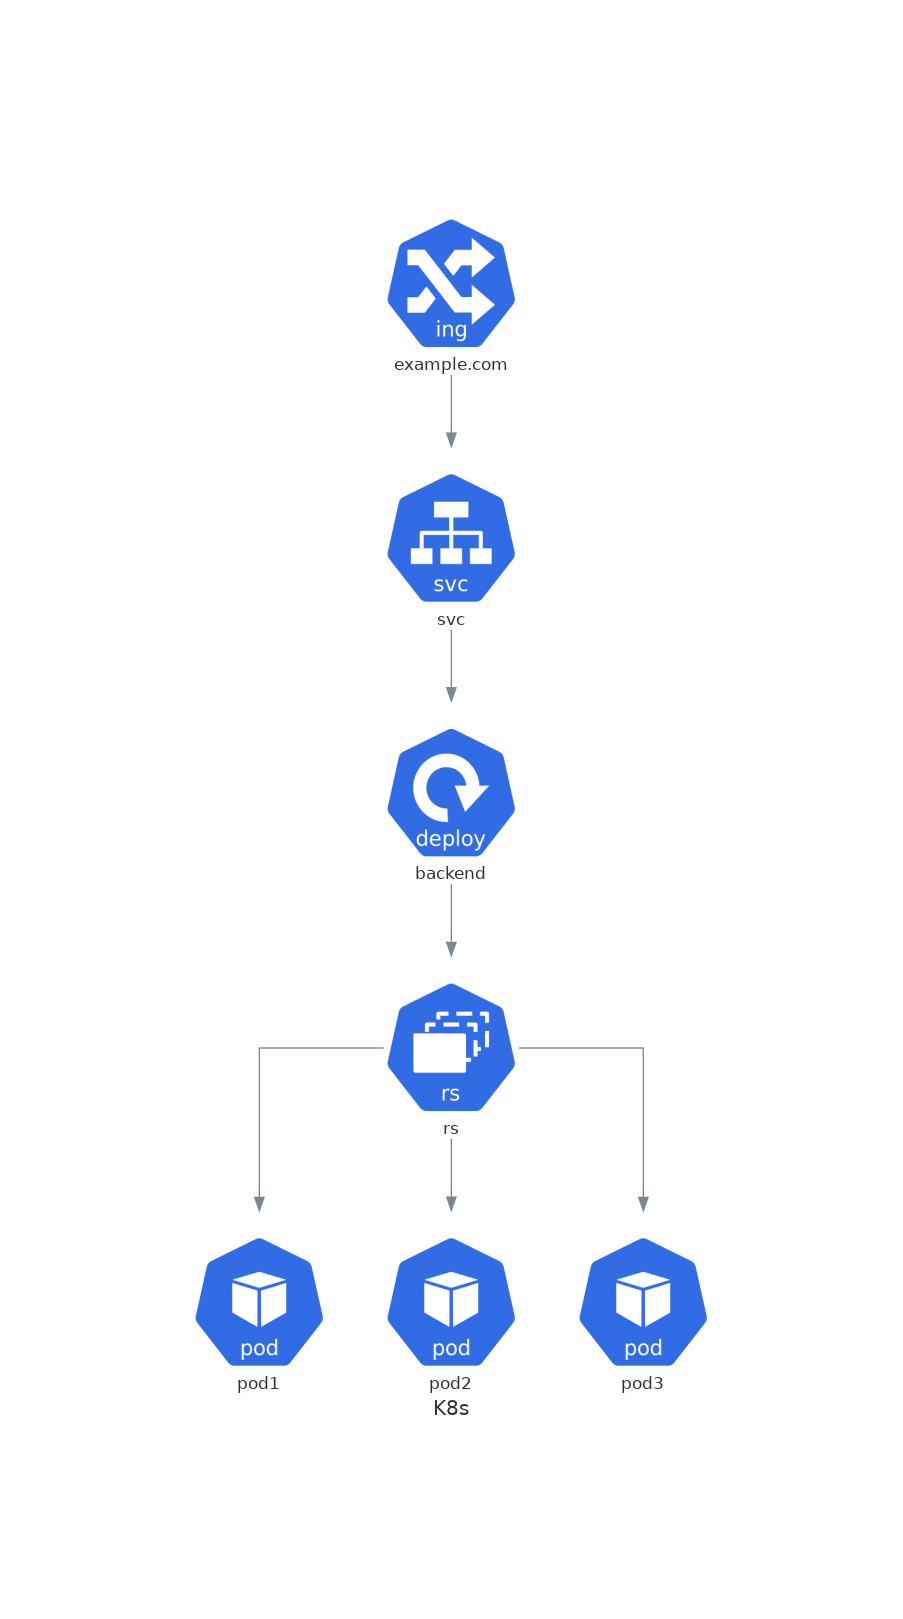
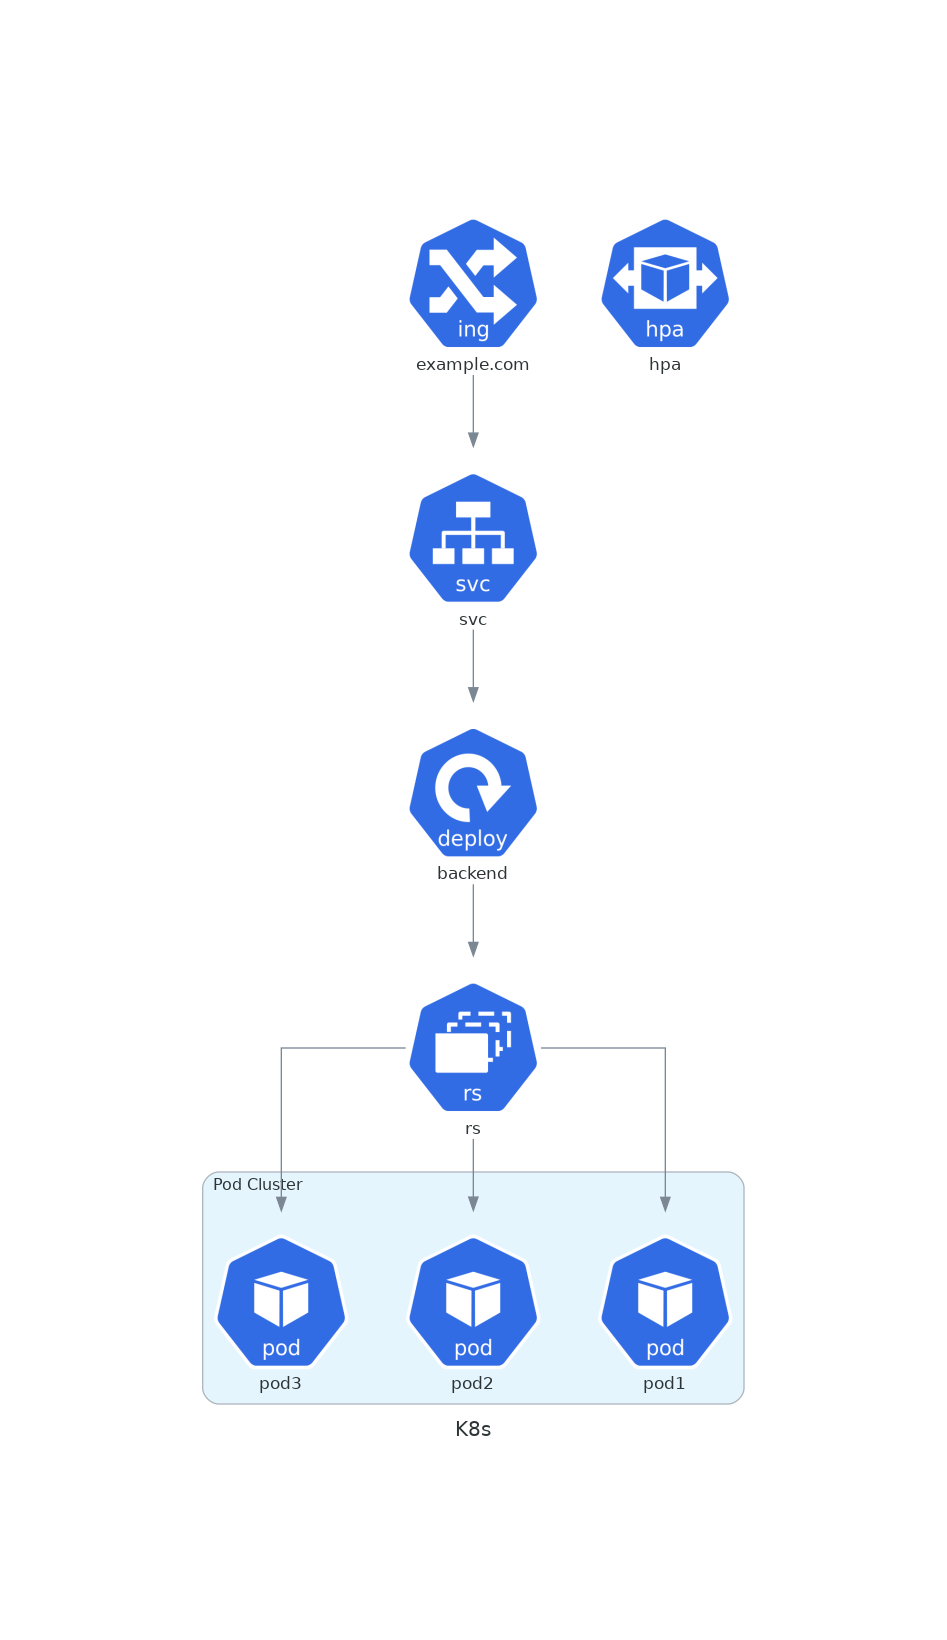
add variable names

diff --git a/k8s.py b/k8s.py
@@ -1,10 +1,17 @@
-from diagrams import Diagram
+from diagrams import Diagram,Cluster
 from diagrams.k8s.network import Ingress,Service
 from diagrams.k8s.compute import Deployment,Pod,ReplicaSet
+from diagrams.k8s.clusterconfig import HPA
 
 
 with Diagram("K8s",show=True,direction="TB"):
     net = Ingress("example.com") >> Service("svc")
-    net >> Deployment("backend") >> ReplicaSet("rs") >> [Pod("pod1"),
-                               Pod("pod2"),
-                               Pod("pod3") ]
+    deploy = Deployment("backend")
+    replicaset = ReplicaSet("rs")
+    hpa = HPA("hpa")
+    net >> deploy
+    with Cluster("Pod Cluster"):
+        pods = [Pod("pod1"),
+        Pod("pod2"),
+        Pod("pod3") ]
+    deploy >> replicaset >> pods
